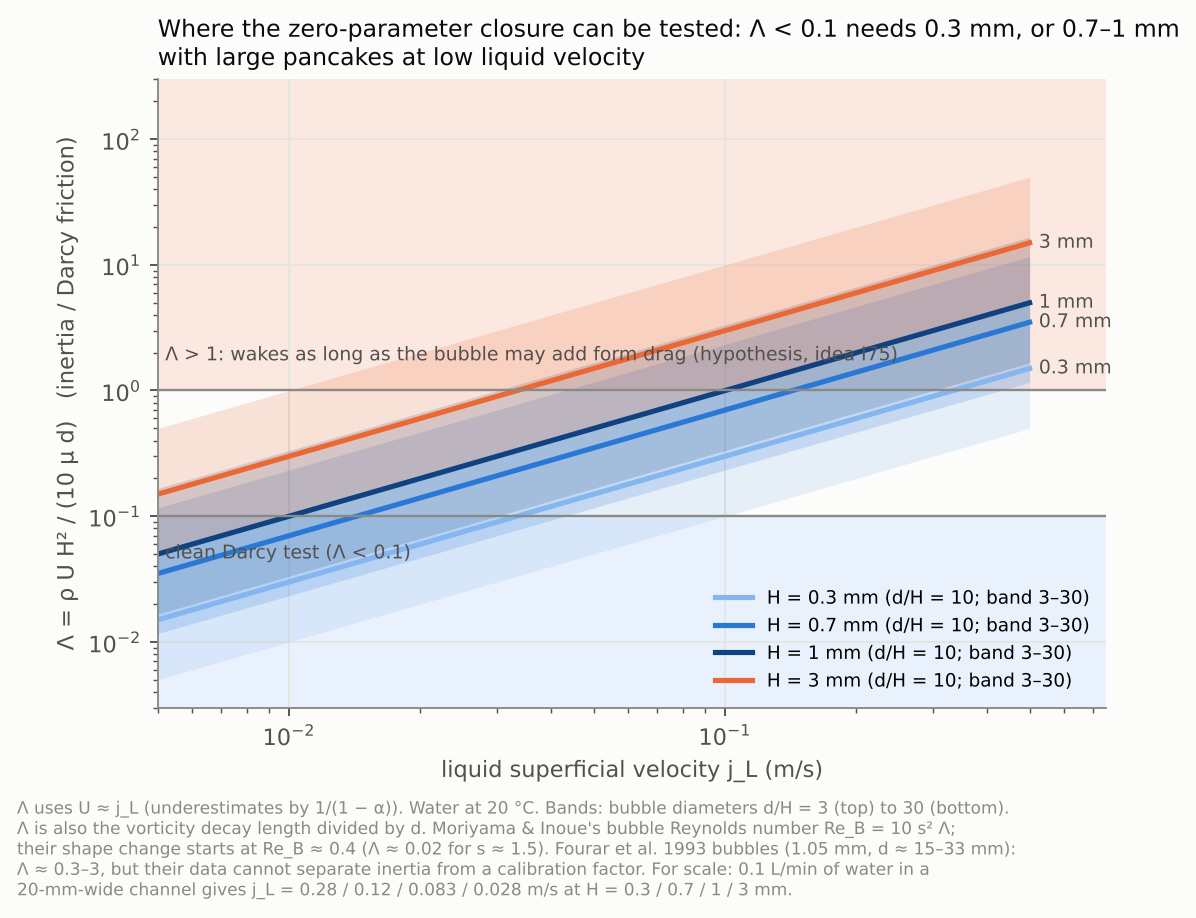
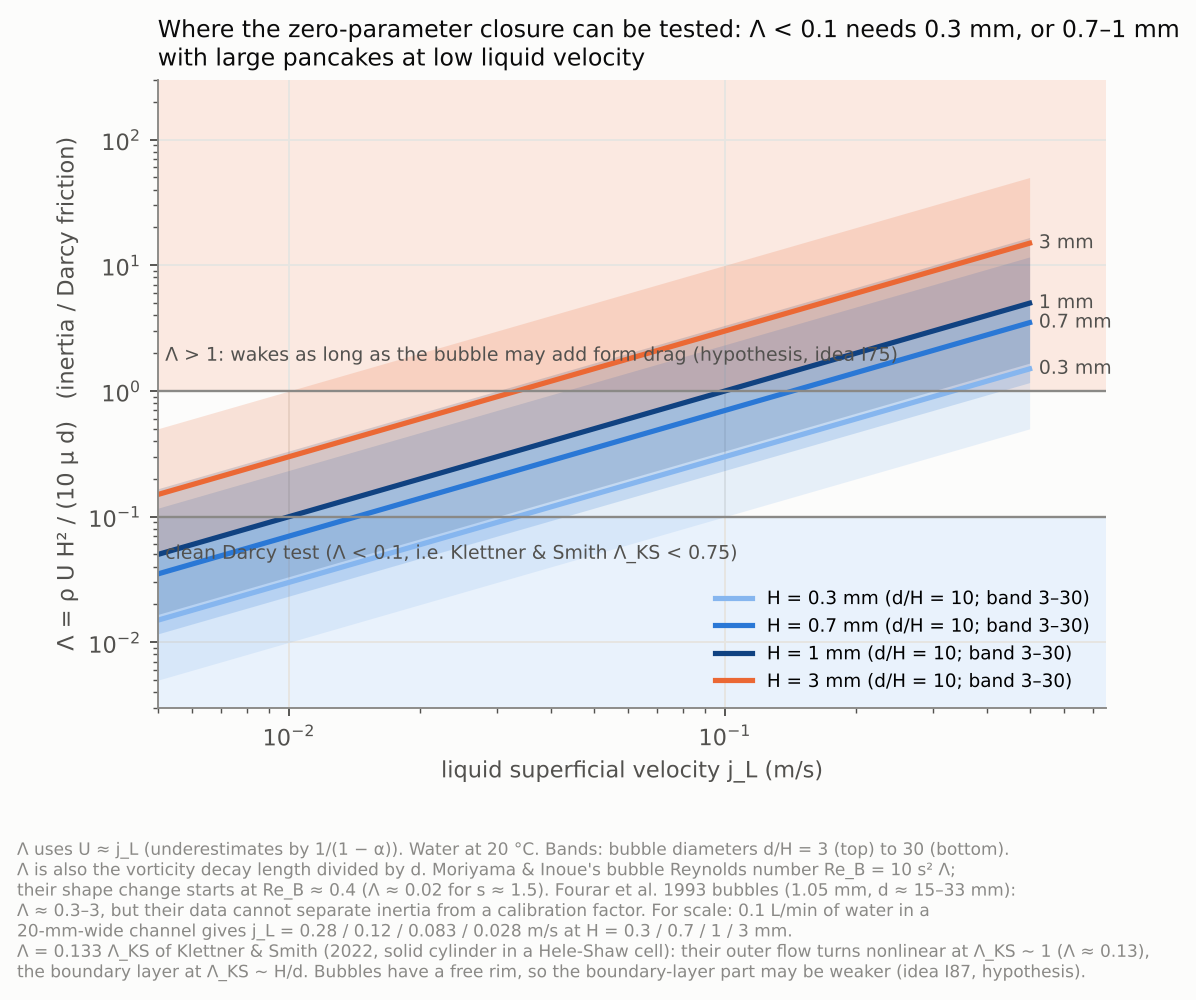
docs: 아이디어 I87(관성은 모양으로 — 남는 몫은 테두리 조건별 세 가설), 선례 Klettner & Smith 2022(Hele-Shaw 고체 원기둥의 Λ_KS, 우리 Λ = 0.133 Λ_KS)를 I75·추정 5.4·그림 r11·데이터 목록에 반영
Claude-Session: https://claude.ai/code/session_01QFVWo3BPZ98Eh7jXYmYxkN

diff --git a/docs/research/fig/src/fig_lambda_map.py b/docs/research/fig/src/fig_lambda_map.py
@@ -2,6 +2,7 @@
 
 - U = j_L/(1 − α) ≈ j_L (α ≈ 0.1~0.2면 10~25% 큼, 여기서는 무시).
 - 기포 크기 d/H = 10을 굵은 선, 3~30을 띠로. 물 20 °C.
+- Λ = 0.133·Λ_KS(Klettner & Smith 2022, Hele-Shaw 고체 원기둥: 바깥 영역 비선형 Λ_KS ~ 1, 경계층 비선형 Λ_KS ~ H/d).
 - 기준: Λ < 0.1 깨끗한 Darcy 시험, 0.1~1 경계, > 1 후류가 기포 크기만큼 남을 수 있음(가설, I75: 깊이 평균 퍼텐셜 해는 모든 Λ에서 정확하고,
   벗어남은 와도·단면 분포·가장자리 3차원에서만 생긴다. 와도 감쇠 길이 = Λ·d). Fourar 1993의 1.05 mm 기포는 Λ ≈ 0.3~3이지만 판정 불가(독립 검토 3).
 - Moriyama & Inoue 1993의 Re_B = 10 s² Λ(s ≈ 1.5면 22Λ). 그들의 모양 변화 시작 Re_B ≈ 0.4는 Λ ≈ 0.02.
@@ -30,7 +31,7 @@ for H_mm, col in GAPS.items():
     ax.plot(jl, lam(10), color=col, lw=2.2, zorder=2, label=f"H = {H_mm:g} mm (d/H = 10; band 3–30)")
     ax.text(jl[-1] * 1.05, lam(10)[-1], f"{H_mm:g} mm", color=INK2, fontsize=8, va="center")
 ax.axhline(0.1, color=MUTED, lw=1); ax.axhline(1.0, color=MUTED, lw=1)
-ax.text(0.0052, 0.06, "clean Darcy test (Λ < 0.1)", color=INK2, fontsize=8, va="top")
+ax.text(0.0052, 0.06, "clean Darcy test (Λ < 0.1, i.e. Klettner & Smith Λ_KS < 0.75)", color=INK2, fontsize=8, va="top")
 ax.text(0.0052, 1.6, "Λ > 1: wakes as long as the bubble may add form drag (hypothesis, idea I75)", color=INK2, fontsize=8, va="bottom")
 ax.set_xscale("log"); ax.set_yscale("log")
 ax.set_xlim(0.005, 0.75); ax.set_ylim(3e-3, 300)
@@ -40,11 +41,13 @@ ax.set_ylabel("Λ = ρ U H² / (10 μ d)   (inertia / Darcy friction)")
 ax.legend(frameon=False, fontsize=7.8, loc="lower right")
 ax.set_title("Where the zero-parameter closure can be tested: Λ < 0.1 needs 0.3 mm, or 0.7–1 mm\n"
              "with large pancakes at low liquid velocity", fontsize=10, color=INK, loc="left")
-fig.text(0.01, -0.12, "Λ uses U ≈ j_L (underestimates by 1/(1 − α)). Water at 20 °C. Bands: bubble diameters d/H = 3 (top) to 30 (bottom).\n"
+fig.text(0.01, -0.22, "Λ uses U ≈ j_L (underestimates by 1/(1 − α)). Water at 20 °C. Bands: bubble diameters d/H = 3 (top) to 30 (bottom).\n"
          "Λ is also the vorticity decay length divided by d. Moriyama & Inoue's bubble Reynolds number Re_B = 10 s² Λ;\n"
          "their shape change starts at Re_B ≈ 0.4 (Λ ≈ 0.02 for s ≈ 1.5). Fourar et al. 1993 bubbles (1.05 mm, d ≈ 15–33 mm):\n"
          "Λ ≈ 0.3–3, but their data cannot separate inertia from a calibration factor. For scale: 0.1 L/min of water in a\n"
-         "20-mm-wide channel gives j_L = 0.28 / 0.12 / 0.083 / 0.028 m/s at H = 0.3 / 0.7 / 1 / 3 mm.",
+         "20-mm-wide channel gives j_L = 0.28 / 0.12 / 0.083 / 0.028 m/s at H = 0.3 / 0.7 / 1 / 3 mm.\n"
+         "Λ = 0.133 Λ_KS of Klettner & Smith (2022, solid cylinder in a Hele-Shaw cell): their outer flow turns nonlinear at Λ_KS ~ 1 (Λ ≈ 0.13),\n"
+         "the boundary layer at Λ_KS ~ H/d. Bubbles have a free rim, so the boundary-layer part may be weaker (idea I87, hypothesis).",
          fontsize=7.2, color=MUTED)
 fig.savefig("/home/user/bubbles/docs/research/fig/fig_r11_lambda_map.png", dpi=170, bbox_inches="tight")
 plt.close(fig)

diff --git a/docs/research/idea_log.md b/docs/research/idea_log.md
@@ -703,7 +703,7 @@
   3. 점도(입구 수온, I41: 20 → 60 °C면 μ 0.47배, Λ 2.1배). Λ만 바뀌지 않는다: Ca가 약 0.5배라 s̄(x)가 움직이고, 60 °C 포화 증기압 약 20 kPa로 기포 부피가 약 +20~25%라 유량계 B와 실제 B가 어긋난다. 둘 다 기록·보정한다.
 - **예상 결과 [가설]**: Λ ≲ 0.1에서 y가 폐합 직선(I73)에 놓인다. 벗어나기 시작하는 Λ와 크기는 모른다. 문헌으로 정할 수 없어 이 실험이 처음 재는 것이다.
 - **반증**: Λ가 1을 넘어도 y가 폐합에 머물면 깊이 평균 퍼텐셜 해가 그대로 맞는 것이다(후류가 약함). Λ가 작아도 벗어나면 다른 기구(막·접촉선·배치)다.
-- **새로움**: 중. 2차원 기포 무리의 관성 보정을 한 수로 정리한 예는 못 봄. Fourar 1993은 상대 투과율이 유량에 의존한다고 보고했지만 기포 단위로 나누지 않았다. **비용**: 없음(기존 실험 행렬에 Λ 열만 추가).
+- **새로움**: 중. **선례(2026-10-24 확인)**: Hele-Shaw 속 고체 원기둥에서 Klettner & Smith 2022(JFM 934:A8, 10.1017/jfm.2021.1128, CC BY)가 같은 꼴의 관성 수 Λ_KS = (U_cR/ν)(h/R)²(U_c 중심 속도, h 반갭, R 반지름)와 ε = h/R로 네 영역을 정리했다: 선형(Λ_KS ≪ ε), 경계층 비선형 I(Λ_KS ~ ε), II(~ ε^½), 바깥 영역까지 비선형 III(Λ_KS ~ 1). Λ_KS = 1에서 뒤쪽 소용돌이 쌍이 약 0.6R, Λ_KS = 3에서 박리. 우리 Λ = ρU_mH²/(10μd)는 **Λ = 0.133·Λ_KS**다. 그래서 우리 "깨끗한 시험 Λ < 0.1"은 Λ_KS < 0.75, 곧 고체의 바깥 영역 비선형 시작 바로 아래다. 고체 타원은 Klettner, Dang & Smith 2023(JFM 971:A12). 기포(자유 테두리)·기포 무리·ΔP 폐합 잔차로 정리한 예는 못 봄(I87). Fourar 1993은 상대 투과율이 유량에 의존한다고 보고했지만 기포 단위로 나누지 않았다. **비용**: 없음(기존 실험 행렬에 Λ 열만 추가).
 
 ### I76. 종횡비를 Re_B로 미리 정하고, 판별 평면의 기울기를 맞춤 없이 예측 (Moriyama & Inoue 1993에서. 독립 검토 4로 "방향만"으로 낮춤)
 - **착안**: 판별 평면(I73)에서 폐합 직선의 기울기는 b/a다. Moriyama & Inoue 1993(J-STAGE 원문)은 단일 편평 기포에서 l_B/w_B = 0.85 − 0.35·log₁₀Re_B(Re_B = ρH²u_B²/(μw_Bu_L) > 0.4)를 얻었다. 그러면 기울기도 영상 없이 Re_B로 예측된다. 영상 종횡비와 그 예측, 압력 기울기 셋을 비교한다.
@@ -841,3 +841,22 @@
 - **예상 결과 [예상]**: 무게 비 0.3 %면 E ±0.005~0.01로, 1 mm에서 0.3~0.6 Pa, 3 mm에서 0.03~0.07 Pa 차압계 분해능에 해당한다. 1 mm의 폐합 시험(Λ에 따른 벗어남, I75)과 3 mm의 끌림 항(I62)을 처음으로 정량할 수 있다.
 - **함정**: 출구 높이 차 1 mm는 약 10 Pa라 3 mm 채널 ΔP(약 7 Pa)를 넘는다 → 출구 높이를 같은 용기의 넘침 둑으로 맞춘다. 기체가 출구 관에 차면 출구 저항이 바뀌므로 채널 끝 바로 뒤에서 기체를 뗀다. 기체 주입부의 저항(바늘)은 A의 입구 쪽에만 있으므로, 주입부를 다기관보다 하류 채널 안에 둔다.
 - **새로움**: 낮음~중(평행 채널 유량 분배는 고전, 측정법으로 쓰는 것과 E를 차압 없이 내는 것이 새것). C₀ = 1 고정점(I84)과 함께 쓰면 E의 계측 오차를 거의 지운다. **비용**: 채널 하나 더, 저울 두 대.
+
+### I87. 관성은 주로 모양을 바꾸고(영상 C_A가 이미 담음), 남는 몫은 기포 테두리 조건에 달렸다: 세 가설과 가르는 실험 [가설, I75 보강]
+- **착안**: 깊이 평균 식 ρ(6/5)(∂u/∂t + u·∇u) = −∇p − (12μ/H²)u + μ∇²u(Brinkman 항 포함)에서 퍼텐셜 흐름 u = ∇φ는 정확한 해다(관성항 = 기울기, ∇²∇φ = 0, 독립 검토 3과 같은 결론). 그래서 관성은 세 길로만 들어온다.
+  1. **모양**: 테두리를 따라 변하는 베르누이 압력 ρ|u|²/2가 기포를 가로로 납작하게 만든다(Moriyama & Inoue 1993의 Re_B 의존, 면내 Weber 수 We = ρu_B²d/σ가 크기를 정함). 이것은 영상 윤곽의 C_A(I81)로 이미 폐합에 들어간다.
+  2. **테두리 와도**: Brinkman 항이 있으면 테두리에 접선 조건이 하나 더 필요하다. 응력이 없는(깨끗한) 테두리는 퍼텐셜 흐름의 면내 변형률만큼만 어긋나 두께 약 H/√12의 약한 와도층을 만든다 → 보정은 O(H/d)이고, 그 와도가 Λ·d만큼 흘러가며 F(Λ)로 커진다. 미끄럼 없는(오염·굳은) 테두리는 O(1) 와도를 만든다(고체 원기둥의 Hele-Shaw 후류와 같은 꼴).
+  3. **단면 분포**: 갭 방향 포물선 분포가 기포 둘레의 가감속을 따라가지 못하는 몫(갭 확산 시간 H²/(π²ν) 대 통과 시간 d/U의 비 ≈ Λ). 깊이 평균의 1차는 기울기라 상쇄되므로 Λ²부터일 것이다.
+- **식(가설, 계수 미정)**: 모양을 잰 폐합(C_A, Q 포함)에서 남는 잔차를
+  - H1(깨끗한 테두리): r ≈ α·k₁·(H/d)·F(Λ) — 큰 팬케이크에서 작다.
+  - H2(굳은 테두리): r ≈ α·k₂·F(Λ) — 크기와 무관.
+  - H3(단면 분포): r ≈ α·k₃·Λ² — 테두리 상태와 무관.
+- **설계**: 같은 Λ에서 d/H를 바꾸고(주입기 I79로 d/H 10 대 30, Λ를 맞추려고 j도 함께 바꿈 — 폐합이 B를 다루므로 괜찮음), 같은 점을 계면활성제(SDS 소량, 테두리를 굳힘)로 반복한다. 1 mm(Λ 0.2~2)와 0.7 mm에서. 쌍둥이 채널(I86)로 E를 ±0.01까지.
+- **예상 결과 [예상, 물 1 mm·j_L 0.05·d/H 10: Λ ≈ 0.6, Λ·H/d ≈ 0.06, We ≈ 0.7]**
+  - H1이면 깨끗한 물에서 잔차가 E 정밀도 아래이고 d/H 30에서 더 작다. 계면활성제를 넣으면 잔차가 커진다 → "관성 벗어남의 크기로 테두리 상태를 읽는다".
+  - H2이면 깨끗한 물에서도 d/H와 무관하게 커진다(이미 오염된 계면).
+  - H3이면 계면활성제와 무관하게 Λ²로 커진다.
+  - 어느 경우든 모양 변화는 We로 정해지고 C_A로 들어간다. 물은 같은 Re_B에서 R113보다 We가 약 40배 작아(독립 검토 4) 덜 납작하다.
+- **반증**: 모양을 잰 폐합의 잔차가 Λ ≈ 1에서도 0 ± 0.01이면 관성은 모양으로만 들어온다(가장 깨끗한 결론). 반대로 Λ ≈ 0.1에서도 잔차가 크면 관성이 아니라 다른 기구다.
+- **선례와 대응(2026-10-24 확인)**: 고체 원기둥(미끄럼 없음)은 Klettner & Smith 2022가 다 풀었다. 경계층(두께 O(h)) 안의 비선형이 Λ_KS ~ ε(우리 Λ ~ 0.13·H/d, d/H 10이면 0.013)에서, 바깥 영역 비선형이 Λ_KS ~ 1(우리 Λ ~ 0.13)에서 시작한다. H2(굳은 테두리)는 이 고체 그림에, H3(단면 분포)는 그들의 "바깥 영역 비선형 III"에 해당한다. H1(깨끗한 테두리)은 미끄럼 없음 경계층이 없으므로 안쪽 영역 효과가 약할 것이다 — 이것이 새 예측이다.
+- **새로움**: 중~높음(가설). 고체는 선례가 있고, 기포 테두리 조건(깨끗/굳음)에 따라 관성 보정의 크기 차수가 달라진다는 예측과 그것을 압력 폐합 잔차로 가르는 실험은 못 봄(WebSearch 1회 + Crossref). **비용**: 계면활성제 소량.

diff --git a/docs/research/microgap_data_catalog.md b/docs/research/microgap_data_catalog.md
@@ -200,6 +200,8 @@
 | M26 | Ruiz-Rus, Ern, Roig & Martínez-Bazán (2022) [lit_8] | J. Fluid Mech. 944:A13 | 10.1017/jfm.2022.492 | 갭 1 mm, 정지 증류수 팬케이크 무리, 250 fps, 자체 추적 | 크기 쌍별 충돌 빈도, 합체 효율 λ ≈ 80% | 그림 | [K] **합체 빈도의 유일한 직접 비교 값** | C+F |
 | M27 | Cantat, Poloni & Delannay (2006) [lit_1 G5] | Phys. Rev. E 73(1):011505 | 10.1103/physreve.73.011505 | 2차원 이분산 거품(Hele-Shaw) | 큰 기포가 문턱을 넘으면 평균보다 빠름, 줄을 이룸 | 그림 | [V] 고기공률 0.3 mm | C+A |
 | M28 | Yin, Jia, Yuan, Luo & Zhang (2023) | Ind. Eng. Chem. Res. 62(37):15255-15267 | 10.1021/acs.iecr.3c01121 | Hele-Shaw 셀 기포 상승 | 자료 기반 추적(DMD)으로 기포 거동 예측 | 그림 + ACS 보충 자료(s001) | [E][V] 추적 방법 비교 | C(제목) |
+| M29 | Klettner & Smith (2022) | J. Fluid Mech. 934:A8 (CC BY) | 10.1017/jfm.2021.1128 | Hele-Shaw 속 고체 원기둥, 이론 + 직접 수치 계산 | 관성 Λ_KS = (U_cR/ν)(h/R)²와 갭 비 ε = h/R의 네 영역: 선형, 경계층 비선형 I(Λ_KS ~ ε)·II(~ ε^½), 바깥 비선형 III(~ 1). Λ_KS = 1에서 뒤 소용돌이 약 0.6R, 3에서 박리 | 식·그림 | [Λ] 우리 Λ = 0.133·Λ_KS. 고체(미끄럼 없음)의 기준선 — 기포 테두리와의 차이가 I87 | C+F(2026-10-24 Cambridge 공개본) |
+| M30 | Klettner, Dang & Smith (2023) | J. Fluid Mech. 971:A12 | 10.1017/jfm.2023.527 | Hele-Shaw 속 얇은 타원(고체), 받음각 | 꼭짓점의 Stokes 영역, 관성 Λ = O(ε)를 넘을 때 변화 | 식·그림 | [Λ] 납작한 물체의 관성 기준 | C+A |
 
 ## 4. 공개 데이터셋
 - "확인" 열: `D+F` = DataCite(또는 저장소 API) 기록 + 파일 목록·크기 확인 / `D` = DataCite 기록(설명·라이선스)만 / `W` = 웹페이지·검색 요약만.

diff --git a/docs/research/PROGRESS.md b/docs/research/PROGRESS.md
@@ -159,3 +159,4 @@
 - 2026-10-24 03:13 UTC: 설계 1장 지배 식에 일반형(C_A·배치) 갱신 블록, 12장 시나리오 S2·S3·S5를 배치 부호(λ)·윤곽 C_A·C₀ = 1 고정점·관성(가설)으로 고침. 독립 검토 5(I83~I85·Q 추정기)를 서브 에이전트로 시작(결과는 review_5.md).
 - (같은 시각대) I85 선례 추가 검색(WebSearch 2회): 갇힌 단층 거품의 면내 전도도(Yazhgur 외 2015 PRE, 정지 구조, 젖음 막 기여 분리), 관 속 전도도 + 차압(Sensors 2019, 관). 움직이는 기포에서 전기–수력 차는 못 찾음. refs 1건.
 - 2026-10-24 03:16 UTC: I64에 Brunel 열전대 깊이 비교(구리 3.5 mm면 1 Hz 0.55·10 Hz 0.15, 스테인리스는 1 Hz도 0.04 → 철 블록은 얕은 열전대나 느린 변조). I86(쌍둥이 채널 수력 다리: 같은 입구 압력의 두 채널 중 하나에만 기체 → 물 무게 비로 1 + E = r₀/(Q_A/Q_B), 차압계 없이 E ±0.005~0.01 → 1 mm·3 mm의 작은 ΔP 대책. Darcy 폐합에서 dΔP/dQ = R > 0이라 유량 이탈 없음).
+- 2026-10-24 03:20 UTC: I87(관성은 주로 모양을 바꾸고 영상 C_A가 담음, 남는 몫은 테두리 조건: H1 깨끗 O(H/d)·F(Λ), H2 굳음 O(1)·F(Λ), H3 단면 분포 ~Λ² — d/H와 계면활성제로 가름). **선례 발견: Klettner & Smith 2022 JFM 934:A8(CC BY)** — Hele-Shaw 고체 원기둥에서 같은 꼴의 Λ_KS = (U_cR/ν)(h/R)²로 네 영역(경계층 비선형 Λ_KS ~ ε, 바깥 비선형 ~ 1). 우리 Λ = 0.133·Λ_KS → "Λ < 0.1"은 Λ_KS < 0.75. I75·I87·추정 5.4절·그림 r11 주석·데이터 목록 M29~M30·refs에 반영.
